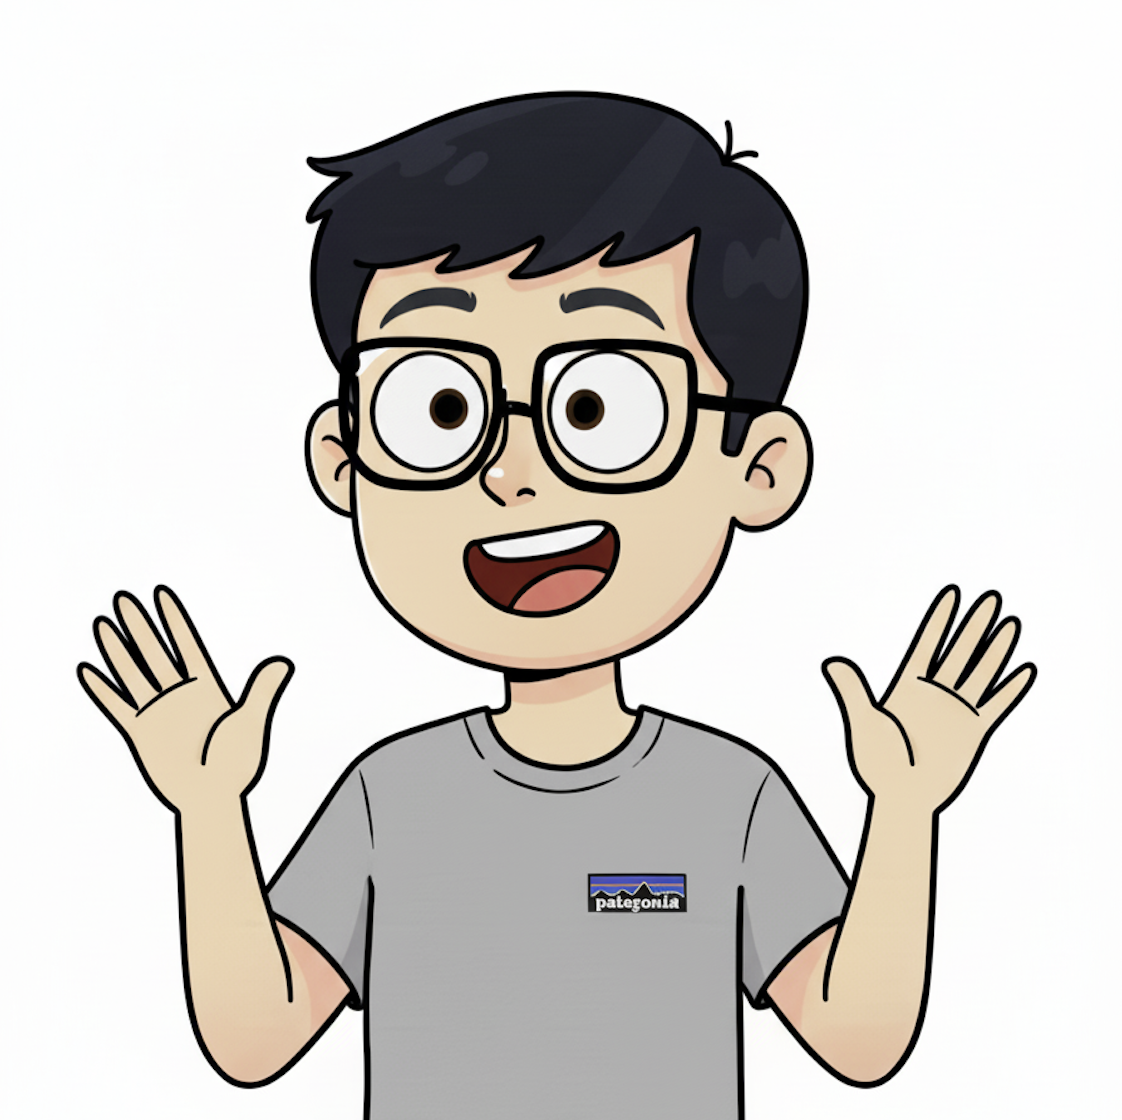
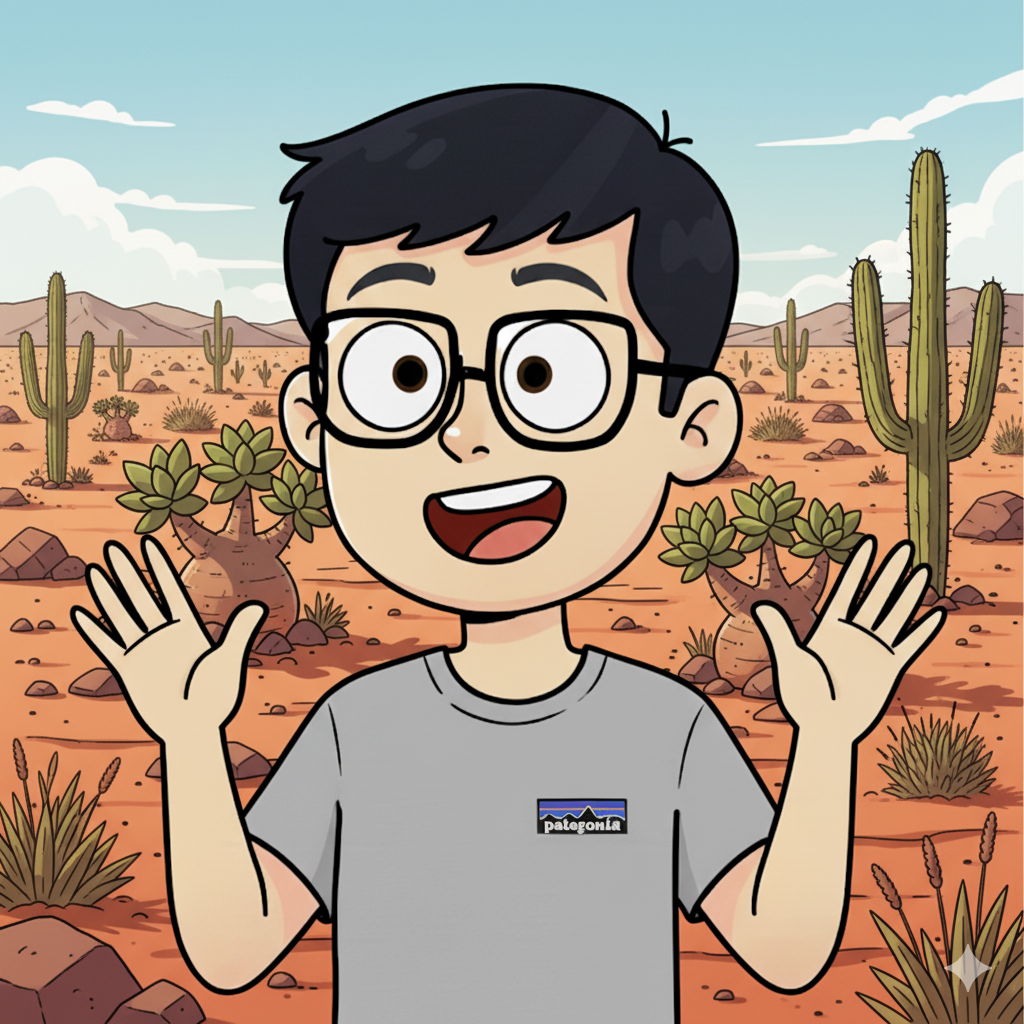
更新博客配置和内容
- 更新 Icarus 主题配置
- 更新头像图片
- 添加笔记目录
- 新增《失落的三十年》读后感文章

🤖 Generated with [Claude Code](https://claude.com/claude-code)

diff --git a/source/Notes/index.md b/source/Notes/index.md
@@ -1,0 +1,13 @@
+---
+title: Notes
+date: 2025-10-08 14:53:19
+---
+
+# 学习笔记
+
+这里记录着我在学习过程中的各种笔记和总结。
+
+- **[设计数据密集型应用（第二版）读后感](/2025/10/08/设计数据密集型应用（第二版）读后感/)**
+- **[失落的三十年读后感](/2025/10/08/失落的三十年读后感/)**
+
+欢迎浏览我的学习笔记，希望能对你有所帮助！

diff --git a/source/_posts/失落的三十年读后感.md b/source/_posts/失落的三十年读后感.md
@@ -1,0 +1,15 @@
+---
+title: 失落的三十年读后感
+date: 2025-10-08 15:05:00
+author: 虎太郎
+toc: true
+categories:
+  - Notes
+tags:
+  - 读后感
+  - 经济学
+  - 日本
+  - 社会观察
+---
+
+> 《失落的三十年》深刻剖析了日本经济泡沫破裂后长期停滞的原因和影响。这本书不仅是经济史的记录，更是对一个国家、一个时代的深刻反思。
